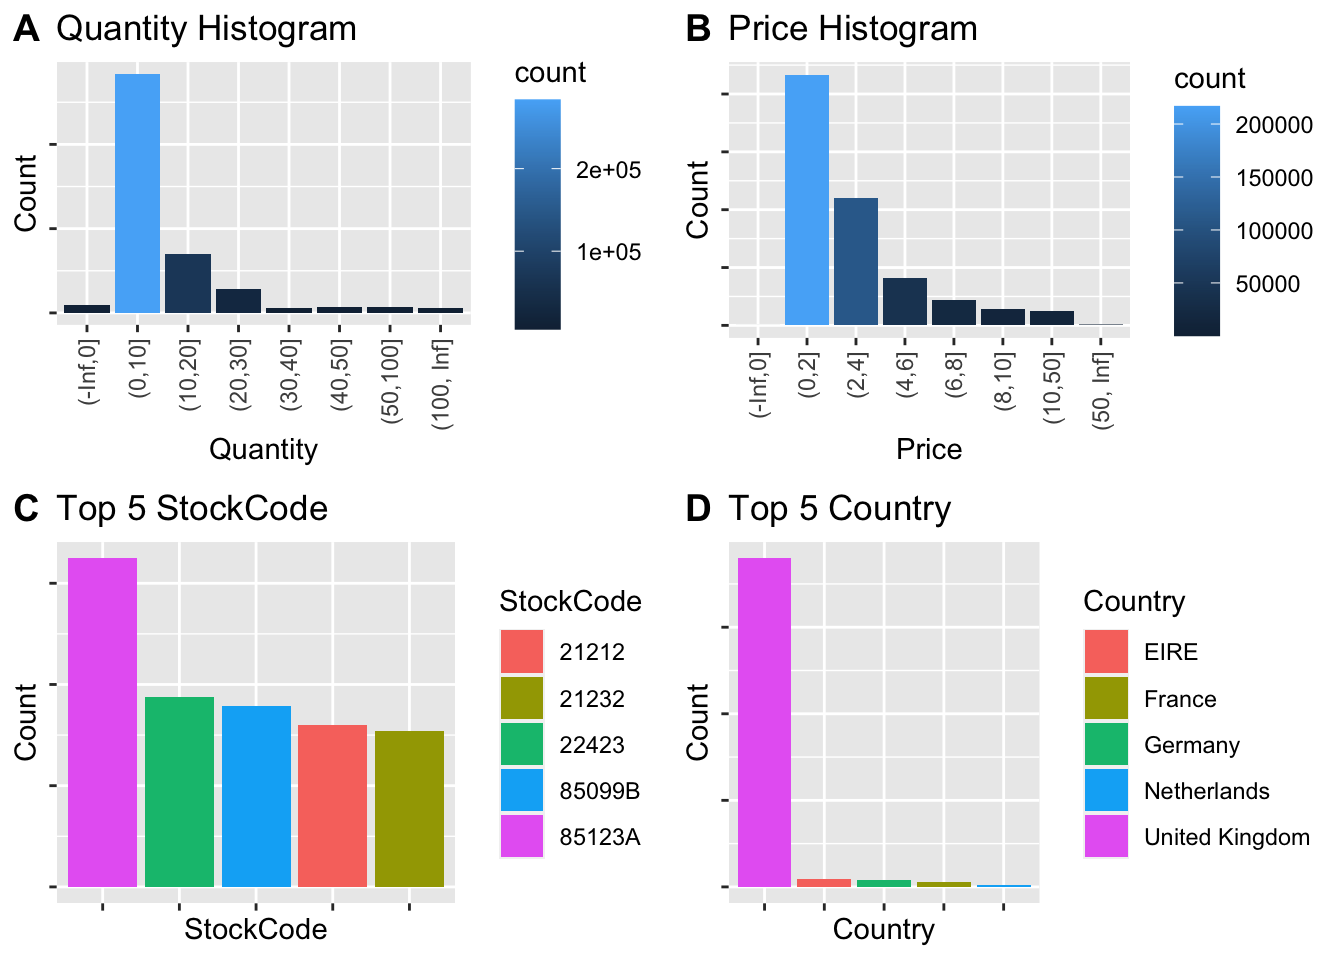
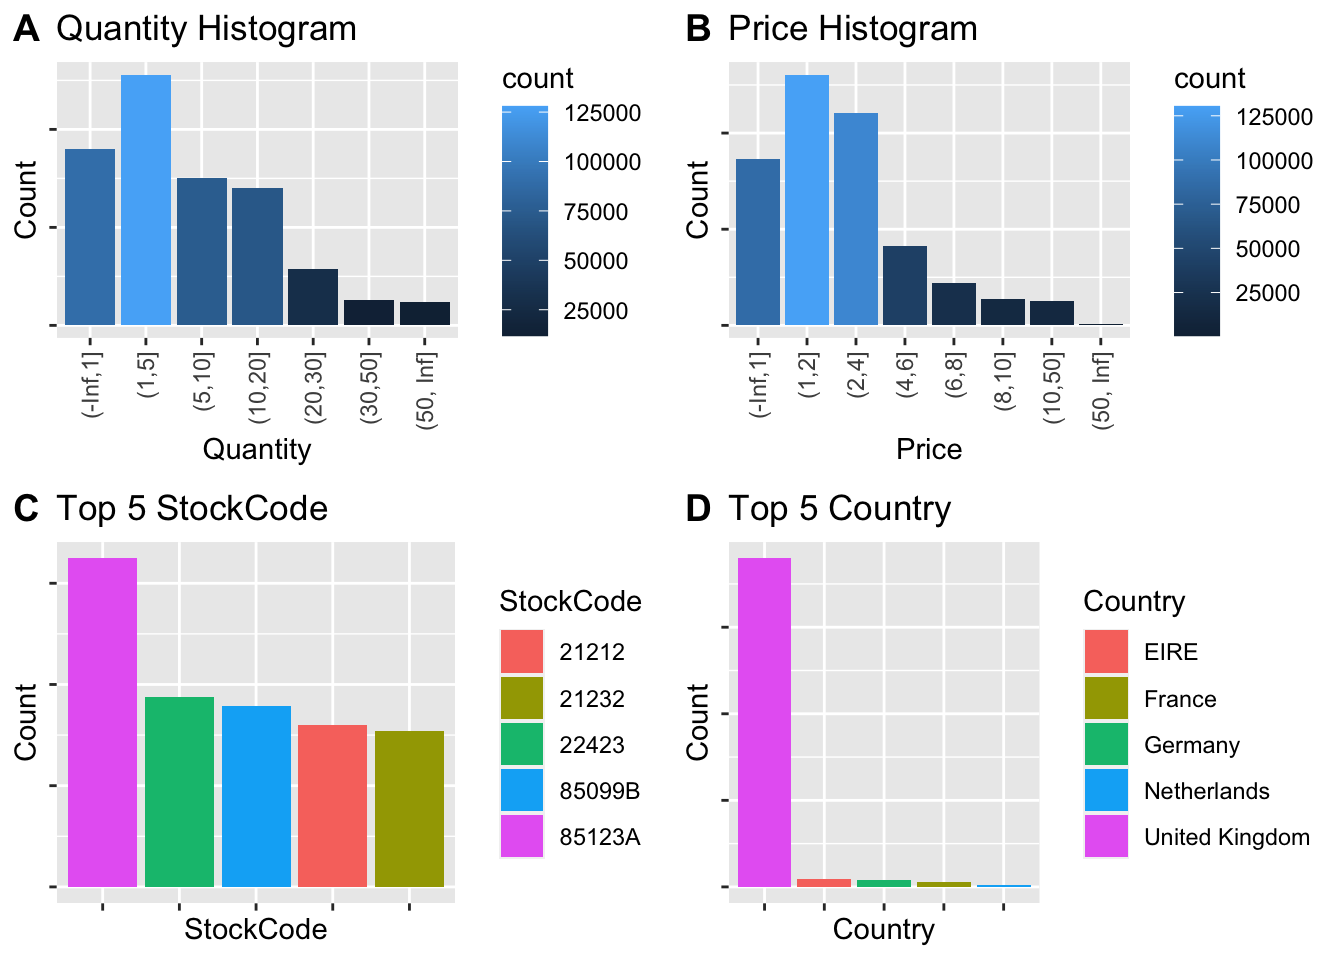
Anand's Changes

diff --git a/index.html b/index.html
@@ -336,7 +336,8 @@ div.csl-indent {
 
 </div>
 </div>
-<p>Let us check the distribution of each field by doing univariate analysis. Plot</p>
+<p>Let us check the distribution of each field by doing univariate analysis.</p>
+<p>Plot:</p>
 <ul>
 <li>Bar chart for categorical attributes</li>
 <li>Histogram for numeric attributes</li>
@@ -346,6 +347,13 @@ div.csl-indent {
 <p><img src="index_files/figure-html/unnamed-chunk-4-1.png" class="img-fluid" width="672"></p>
 </div>
 </div>
+<p>From the visualizations, we get a good amount of information about the structure of our chosen data. Below are the observations:</p>
+<ol type="A">
+<li>The Quantity is is heavily skewed right and most of the transactions involved a quantity in the range of 1 to 5</li>
+<li>The unit Price is also skewed right and most of the items have unit price between 1 and 4</li>
+<li>The item with StockCode 85123A was sold most</li>
+<li>Most of the customers belong to United Kingdom</li>
+</ol>
 </section>
 <section id="data-preparation" class="level2" data-number="3.3">
 <h2 data-number="3.3" class="anchored" data-anchor-id="data-preparation"><span class="header-section-number">3.3</span> Data Preparation</h2>
